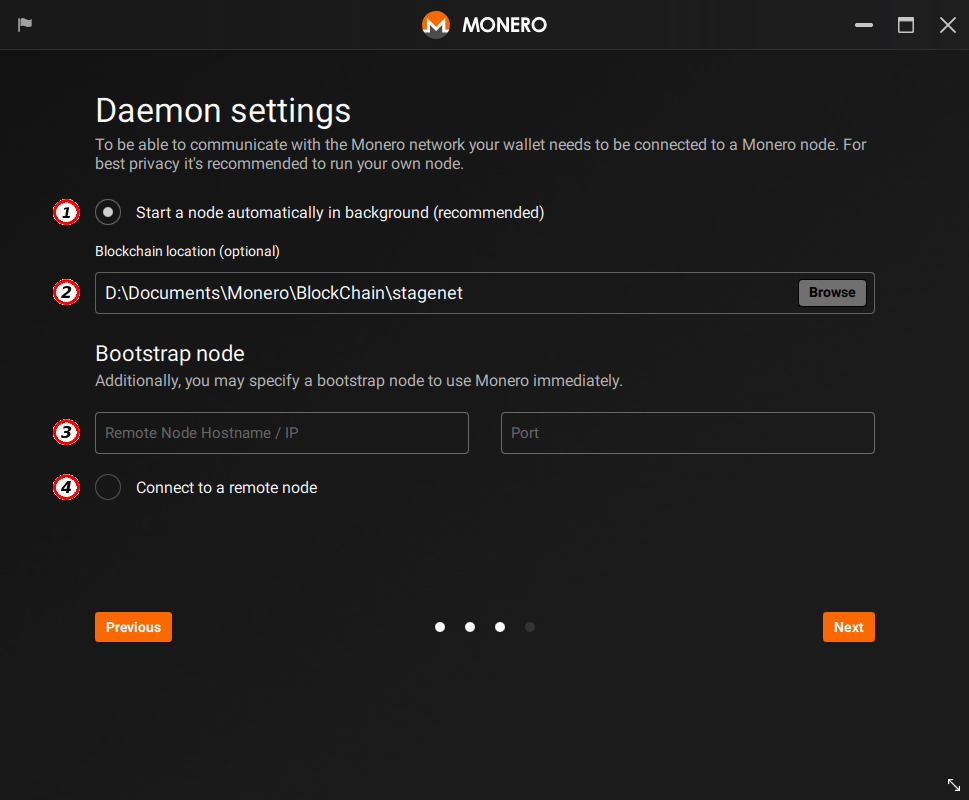
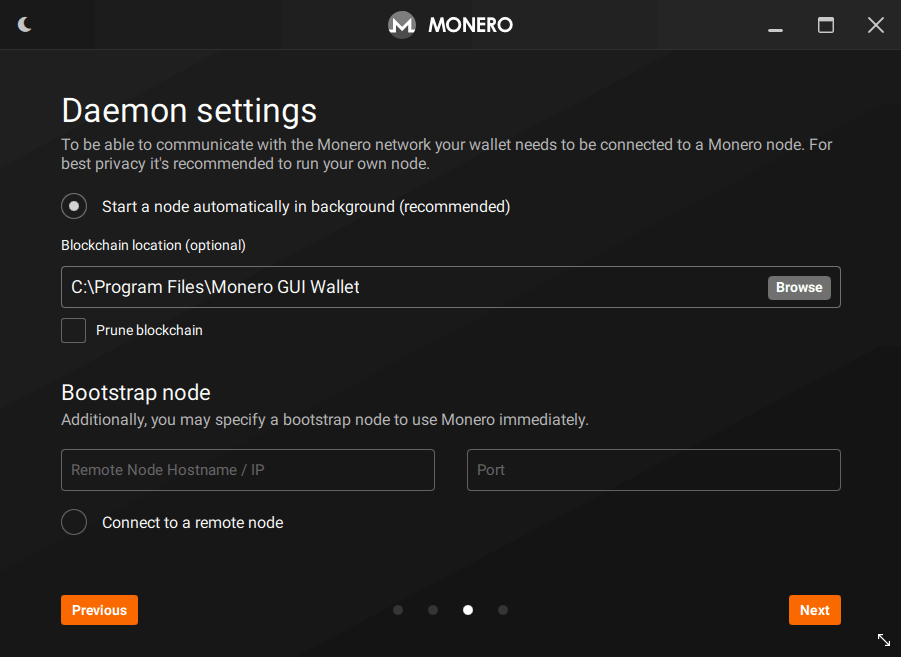
ch02: update daemon settings on create new wallet section (#210)

diff --git a/en/ch02.md b/en/ch02.md
@@ -31,14 +31,30 @@ Here you can create a new wallet file:
 Add a strong password to protect your wallet. If you lose your password, then only your mnemonic seed can recover your wallet.
 
 ### Daemon settings
+If your wallet is in advanced mode, the daemon settings page will open. Here you can choose if you are going to start a local node or connect to a remote node:
+
 ![daemon settings](media/wizard_5-daemon-settings.png)
 
-This page will open if your wallet is in advanced mode. Here you can choose if you are going to start a local node or connect to a remote node:
+(1) **Start a node automatically in background (recommended):** Check this box to start a local node in the background and download the blockchain.  
+(1.a) **Blockchain location (optional):** To store the blockchain somewhere other than default, enter that location here.  
+(1.b) **Prune blockchain:** Check this box if you want to run your local node as a pruned node and download/sync a pruned blockchain from scratch (1/3 of the full blockchain). Leave this unchecked if you want to run your local node as a full node and download the whole blockchain (more than 110 GB).  
+(1.c) **Bootstrap node:** Here you can enter the host/IP address and port of a bootstrap node (remote node). Your local node will temporarily connect to this third-party remote node while the blockchain is being downloaded, allowing you to use your wallet immediately. For a list of available remote nodes and info about them, check the [About remote nodes](#about-remote-nodes) section of this guide.  
 
-(1) **Start node in background:** Check this box to start a local node in the background and download the blockchain.  
-(2) **Blockchain location (optional):** To store the blockchain somewhere other than default, enter that location here.  
-(3) **Bootstrap node:** Here you can enter the host/IP address and port of a bootstrap node (remote node). Your local node will temporarily connect to this third-party remote node while the blockchain is being downloaded, allowing you to use your wallet immediately. For a list of available remote nodes and info about them, check the [About remote nodes](#about-remote-nodes) section of this guide.  
-(4) **Connect to a remote node:** Check this box if you just want to use a remote node without downloading the blockchain. Enter the host/IP address and port of the remote node after checking the box.
+![daemon settings_remote_node](media/wizard_5-daemon-settings-remote-node.png)
+
+(2) **Connect to a remote node:** select this option if you want your Monero GUI to connect to the Monero network using a remote node, and if you don't want to download the whole blockchain on the current computer. Remote nodes are servers running local nodes that have a full blockchain. These servers are usually run by third parties (which can be dangerous to your privacy), but you can also run your own remote node if you have technical knowledge. Check the ['About remote nodes' section](#about-remote-nodes) of this guide.  
+
+If you don't have any remote node on your remote node list, you will have to add one. Click on **Add remote node**, and the following pop up will open:  
+
+![settings_remote-node-edit](media/black_settings-node-remote_node_edit.png)
+
+To find a remote node, type 'Monero remote node' into your favorite search engine. Please ensure the node is run by a trusted third-party.  
+
+(1) **Address:** Enter the hostname or IP address of the remote node.  
+(2) **Port:** Enter the port of the remote node.  
+(3) **Daemon Username:**  Enter a username in case authentication to the remote node is required.  
+(4) **Daemon Password:**  Enter a password in case authentication to the remote node is required.  
+(5) **Mark as Trusted Daemon:** By default, data requests to remote nodes are obfuscated, and this process requires more resources. If your remote node is under your control (i.e. a dedicated server of your own) you can mark it as trusted so that data requests will not be obfuscated anymore (just like a local node).
 
 ### Starting a local node
 If you have selected to start a local node, every time you open your wallet you will see this pop up window:
